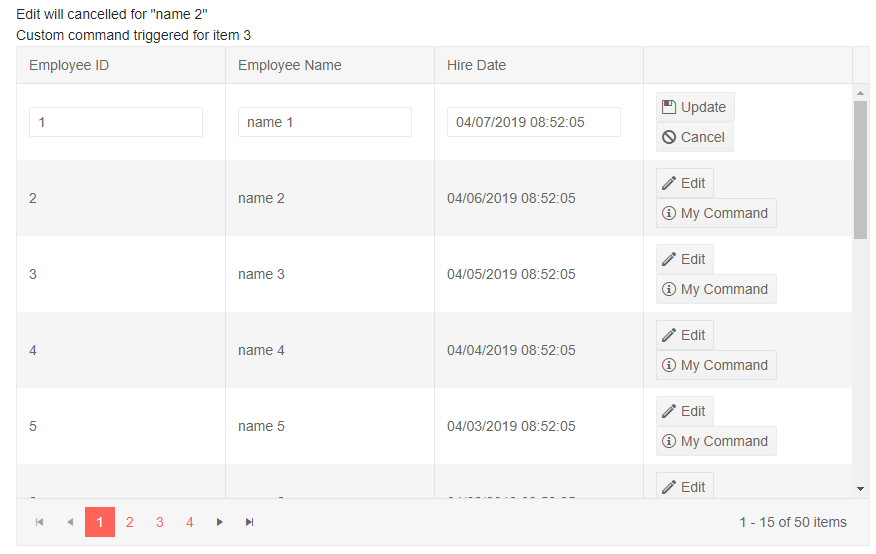
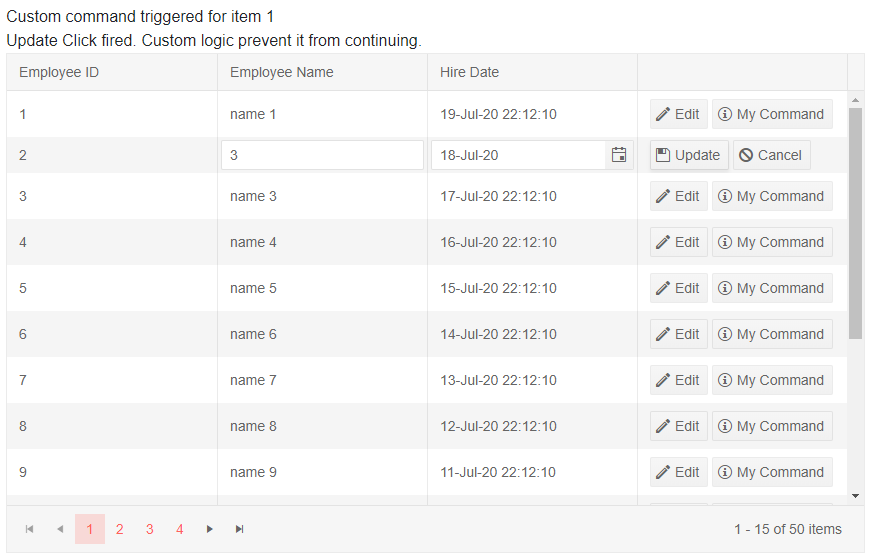
chore(grid): improve command column example

diff --git a/components/grid/columns/command.md b/components/grid/columns/command.md
@@ -41,115 +41,86 @@ The `OnClick` handler of the commands receives an argument of type `GridCommandE
 
 >tip The event handlers use `EventCallback` and can be synchronous or async. This example shows async versions, and the signature for the synchronous handlers is `void MyHandlerName(GridCommandEventArgs args)`.
 
->caption Example of adding and handling command columns for inline editing of a grid
+>caption Example of handling custom commands in a grid column
 
 ````CSHTML
-Edit will be cancelled for "name 2". There is a deliberate delay in the event handlers to showcase their async nature. Actual CRUD operations are not implemented, the code showcases how you can obtain the information so you can use it.
-<br />
+@* This sample showcases custom command handling for:
+    - the built-in Save command that prevents it based on some condition
+    - a custom command for a row
+    *@
+    
 @CustomCommandResult
 
-<TelerikGrid Data=@GridData EditMode="@GridEditMode.Inline"
-			 Pageable="true" PageSize="15" Height="500px">
-	<GridColumns>
-		<GridColumn Field=@nameof(SampleData.ID) Editable="false" Title="Employee ID" />
-		<GridColumn Field=@nameof(SampleData.Name) Title="Employee Name" />
-		<GridColumn Field=@nameof(SampleData.HireDate) Title="Hire Date" />
-		<GridCommandColumn>
-			<GridCommandButton Command="Edit" Icon="edit" OnClick="@MyEditHandler">Edit</GridCommandButton>
-			<GridCommandButton Command="Save" Icon="save" ShowInEdit="true" OnClick="@MyUpdateHandler">Update</GridCommandButton>
-			<GridCommandButton Command="Cancel" Icon="cancel" ShowInEdit="true" OnClick="@MyCancelHandler">Cancel</GridCommandButton>
-			<GridCommandButton Command="MyOwnCommand" Icon="information" ShowInEdit="false" OnClick="@MyCustomCommand">My Command</GridCommandButton>
-		</GridCommandColumn>
-	</GridColumns>
+<TelerikGrid Data=@GridData EditMode="@GridEditMode.Inline" OnUpdate="@MyUpdateHandler"
+             Pageable="true" PageSize="15" Height="500px">
+    <GridColumns>
+        <GridColumn Field=@nameof(SampleData.ID) Editable="false" Title="Employee ID" />
+        <GridColumn Field=@nameof(SampleData.Name) Title="Employee Name" />
+        <GridColumn Field=@nameof(SampleData.HireDate) Title="Hire Date" />
+        <GridCommandColumn>
+            <GridCommandButton Command="Edit" Icon="edit">Edit</GridCommandButton>
+            <GridCommandButton Command="Save" Icon="save" ShowInEdit="true" OnClick="@CustomSaveClick">Update</GridCommandButton>
+            <GridCommandButton Command="Cancel" Icon="cancel" ShowInEdit="true">Cancel</GridCommandButton>
+            <GridCommandButton Command="MyOwnCommand" Icon="information" ShowInEdit="false" OnClick="@MyCustomCommandHandler">My Command</GridCommandButton>
+        </GridCommandColumn>
+    </GridColumns>
 </TelerikGrid>
 
 @code {
-	//in a real case, keep the models in dedicated locations, this is just an easy to copy and see example
-	public class SampleData
-	{
-		public int ID { get; set; }
-		public string Name { get; set; }
-		public DateTime HireDate { get; set; }
-	}
+    //in a real case, keep the models in dedicated locations, this is just an easy to copy and see example
+    public class SampleData
+    {
+        public int ID { get; set; }
+        public string Name { get; set; }
+        public DateTime HireDate { get; set; }
+    }
 
-	public IEnumerable<SampleData> GridData = Enumerable.Range(1, 50).Select(x => new SampleData
-	{
-		ID = x,
-		Name = "name " + x,
-		HireDate = DateTime.Now.AddDays(-x)
-	});
+    List<SampleData> GridData = Enumerable.Range(1, 50).Select(x => new SampleData
+    {
+        ID = x,
+        Name = "name " + x,
+        HireDate = DateTime.Now.AddDays(-x)
+    }).ToList();
 
-	private async Task MyEditHandler(GridCommandEventArgs args)
-	{
-		Console.WriteLine("Edit Click fired. Please wait for the long operation to finish");
+    // sample custom commands handling
 
-		int empId = (args.Item as SampleData).ID;
+    async Task CustomSaveClick(GridCommandEventArgs e)
+    {
+        SampleData theUpdatedItem = e.Item as SampleData;
+        // any custom logic
+        if (theUpdatedItem.Name.Contains("3"))
+        {
+            // prevent the operation based on a condition. Will prevent the OnUpdate event from firing
+            CustomCommandResult = new MarkupString(CustomCommandResult + "<br />Update Click fired. Custom logic prevent it from continuing.");
+            e.IsCancelled = true;
+        }
+    }
 
-		//example of cancelling an event based on condition
-		//we recommend you do this in the corresponding CRUD event
-		if (empId == 2)
-		{
-			args.IsCancelled = true;
-		}
+    MarkupString CustomCommandResult;
+    async Task MyCustomCommandHandler(GridCommandEventArgs args)
+    {
+        CustomCommandResult = new MarkupString(CustomCommandResult + string.Format("<br />Custom command triggered for item {0}", (args.Item as SampleData).ID));
 
-		await Task.Delay(2000); //simulate actual long running async operation
-		//await httpClient.PutJsonAsync("myApiUrl/" + empId, args.Item as SampleData); //sample HTTP call
-	}
+        Console.WriteLine("The Custom command fired. Please wait for the long operation to finish");
 
-	private async Task MyUpdateHandler(GridCommandEventArgs args)
-	{
-		Console.WriteLine("Update Click fired. Please wait for the long operation to finish");
+    }
 
-		SampleData theUpdatedItem = args.Item as SampleData;
-		//save changes, for example by using the model fields and/or methods
-		//we recommend you do this in the corresponding CRUD event
+    // sample CUD operations
 
-		//if you have a context added through an @inject statement, you could call its SaveChanges() method
-		//myContext.SaveChanges();
-
-		await Task.Delay(2000); //simulate actual long running async operation
-		//await httpClient.PutJsonAsync("myApiUrl/" + theUpdatedItem.ID, theUpdatedItem); //sample HTTP call
-	}
-
-	private async Task MyCancelHandler(GridCommandEventArgs args)
-	{
-		Console.WriteLine("Cancel Click fired. Please wait for the long operation to finish");
-
-		SampleData theUpdatedItem = args.Item as SampleData;
-		//revert the changes
-		//we recommend you do this in the corresponding CRUD event
-
-		//if you have a context added through an @inject statement, you could use something like this to abort changes
-		//foreach (var entry in nwContext.ChangeTracker.Entries().Where(entry => entry.State == EntityState.Modified))
-		//{
-		//  entry.State = EntityState.Unchanged;
-		//}
-
-		await Task.Delay(2000); //simulate actual long running async operation
-		//await httpClient.PutJsonAsync("myApiUrl/" + theUpdatedItem.ID, theUpdatedItem); //sample HTTP call
-
-		//inform the view to update
-		StateHasChanged();
-	}
-
-	private MarkupString CustomCommandResult;
-
-	private async Task MyCustomCommand(GridCommandEventArgs args)
-	{
-		Console.WriteLine("The Custom command fired. Please wait for the long operation to finish");
-
-		CustomCommandResult = new MarkupString(string.Format("Custom command triggered for item {0}", (args.Item as SampleData).ID));
-
-		await Task.Delay(2000); //simulate actual long running async operation
-		//await httpClient.PutJsonAsync("myApiUrl/" + item.Id, item); //sample HTTP call
-
-		//inform the UI for changes because this sample implementation needs it
-		StateHasChanged();
-	}
+    private async Task MyUpdateHandler(GridCommandEventArgs args)
+    {
+        SampleData theUpdatedItem = args.Item as SampleData;
+        // if the grid Data is not tied to the service, you may need to update the local view data too
+        var index = GridData.FindIndex(i => i.ID == theUpdatedItem.ID);
+        if (index != -1)
+        {
+            GridData[index] = theUpdatedItem;
+        }
+    }
 }
 ````
 
->caption The result from the code snippet above, after Edit was clicked on the first row, and the custom command button on the third row was clicked.
+>caption The result from the code snippet above, after the custom command button was clicked on the first row, and after the user tried to edit the second row to put the number "3" in the Name column.
 
 ![](images/command-column-result.png)
 

diff --git a/components/treelist/columns/command.md b/components/treelist/columns/command.md
@@ -42,7 +42,7 @@ The `OnClick` handler of the commands receives an argument of type `TreeListComm
 
 >tip The event handlers use `EventCallback` and can be synchronous or async. This example shows async versions, and the signature for the synchronous handlers is `void MyHandlerName(TreeListCommandEventArgs args)`.
 
->caption Example of adding and handling command columns for inline editing of a treelist
+>caption Example of handling custom commands in a treelist
 
 ````CSHTML
 @* This sample showcases custom command handling for:
